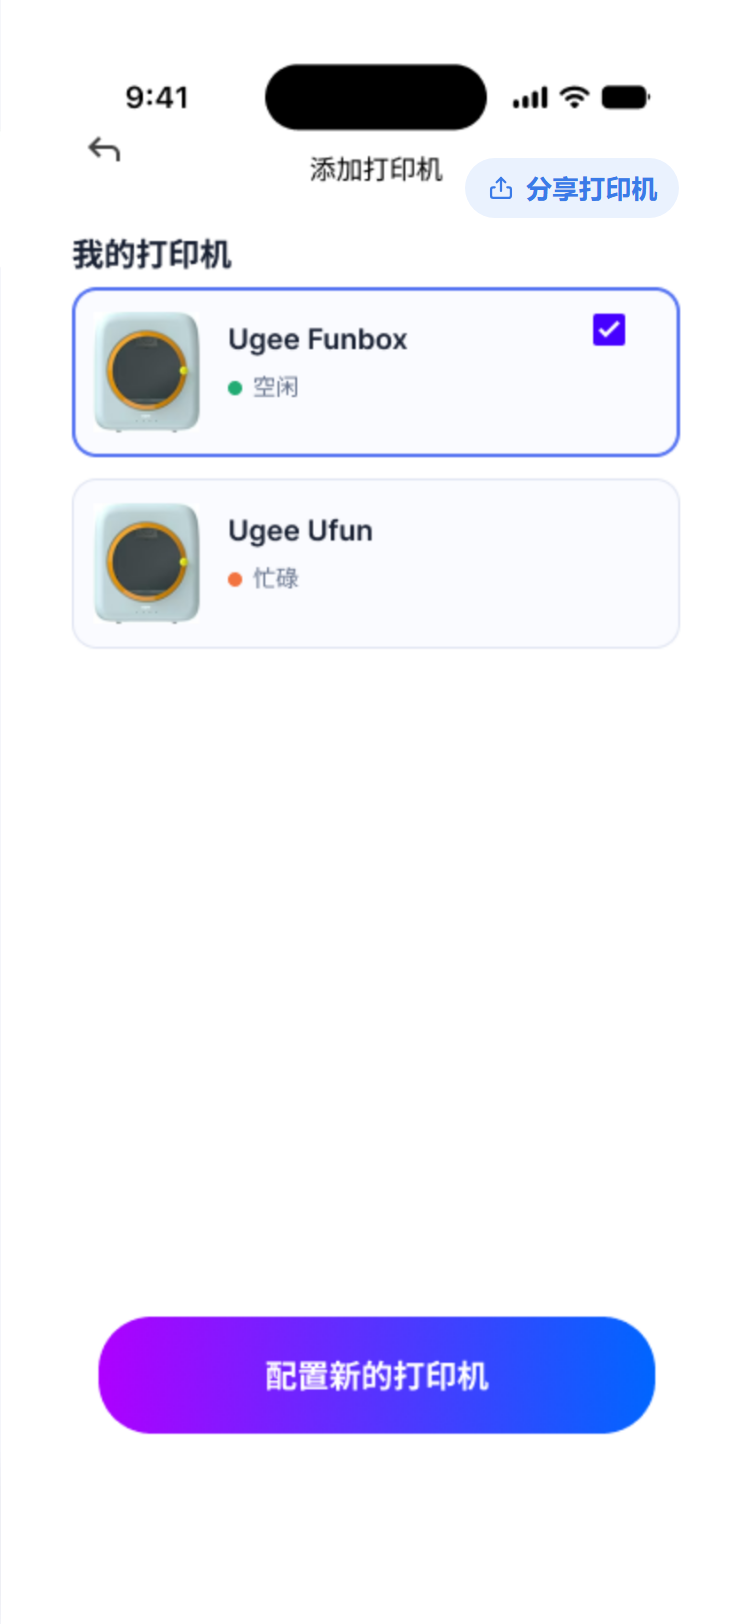
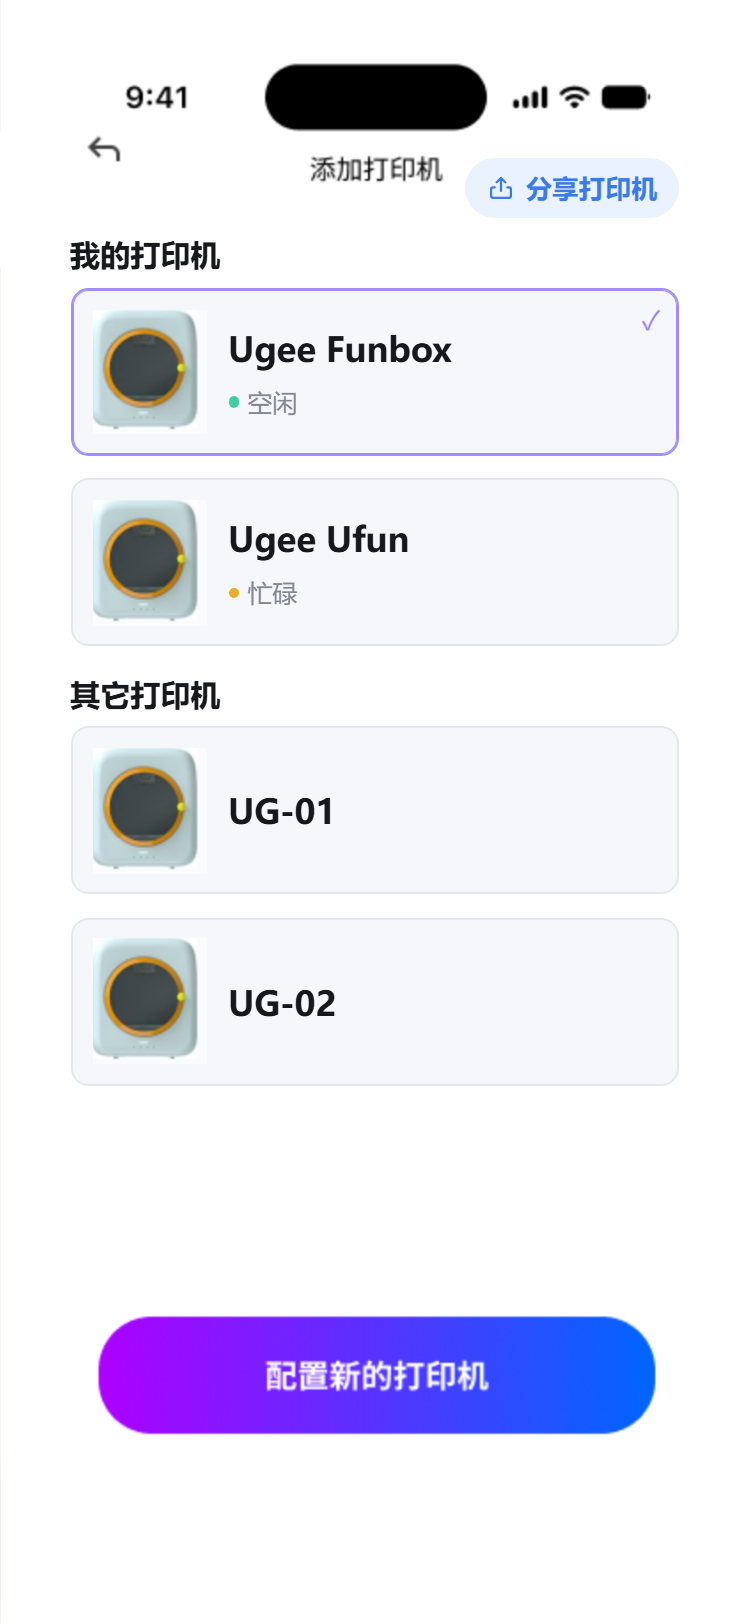
feat(prototype): add discovered printers with owner binding rules

diff --git a/ziyan/dayinji/自研款打印机打印页面原型/index.html b/ziyan/dayinji/自研款打印机打印页面原型/index.html
@@ -5,7 +5,7 @@
   <meta name="viewport" content="width=device-width, initial-scale=1, viewport-fit=cover">
   <meta name="theme-color" content="#f4f5fa">
   <title>自研款打印机打印页面原型</title>
-  <link rel="stylesheet" href="styles.css?v=r011">
+  <link rel="stylesheet" href="styles.css?v=r012">
   <link rel="stylesheet" href="styles-share-printer.css?v=r008">
   <link rel="stylesheet" href="styles-filament-operation.css?v=r008">
   <link rel="stylesheet" href="styles-3d-preview.css?v=r008">
@@ -311,7 +311,40 @@
   <section id="add-printer-screen" class="reuse-screen" hidden tabindex="-1" aria-label="添加打印机">
     <div class="reuse-screen-frame">
       <div class="reuse-stage" style="--reuse-ratio: 846 / 1720">
-        <img src="../../原型修改复用图片资源/添加打印机.png" alt="添加打印机页，包含我的打印机列表与配置新的打印机按钮">
+        <img src="../../原型修改复用图片资源/添加打印机.png" alt="" aria-hidden="true">
+        <div class="add-printer-catalog">
+          <section aria-labelledby="my-printers-heading">
+            <h2 id="my-printers-heading">我的打印机</h2>
+            <div id="my-printers-list" class="printer-list">
+              <button class="printer-card" type="button" aria-pressed="true">
+                <span class="printer-card-icon" aria-hidden="true"></span>
+                <span class="printer-card-copy"><span class="printer-name">Ugee Funbox</span><span class="printer-status">空闲</span></span>
+                <span class="printer-selected" aria-hidden="true">✓</span>
+              </button>
+              <button class="printer-card" type="button" aria-pressed="false">
+                <span class="printer-card-icon" aria-hidden="true"></span>
+                <span class="printer-card-copy"><span class="printer-name">Ugee Ufun</span><span class="printer-status printer-status--busy">忙碌</span></span>
+                <span class="printer-selected" aria-hidden="true">✓</span>
+              </button>
+            </div>
+          </section>
+          <section aria-labelledby="other-printers-heading">
+            <h2 id="other-printers-heading">其它打印机</h2>
+            <div id="other-printers-list" class="printer-list">
+              <button id="printer-ug01" class="printer-card" type="button">
+                <span class="printer-card-icon" aria-hidden="true"></span>
+                <span class="printer-card-copy"><span class="printer-name">UG-01</span></span>
+                <span class="printer-selected" aria-hidden="true">✓</span>
+              </button>
+              <button id="printer-ug02" class="printer-card" type="button">
+                <span class="printer-card-icon" aria-hidden="true"></span>
+                <span class="printer-card-copy"><span class="printer-name">UG-02</span></span>
+                <span class="printer-selected" aria-hidden="true">✓</span>
+              </button>
+            </div>
+          </section>
+          <p id="printer-add-announcement" class="sr-only" role="status"></p>
+        </div>
         <!-- 顶部右侧、略低于标题「添加打印机」的新入口：分享打印机。
              原图此处是空白，所以按钮需要自绘文字（不是透明热区）。 -->
         <button id="open-share-printer" class="add-printer-share-entry" type="button" aria-label="分享打印机">
@@ -964,6 +997,15 @@
   <!-- 3D 预览页逻辑；three.js 与内嵌模型数据（base64 STL，约 1.2 MB，绕开 file:// 的 CORS 限制）
        由它在第一次打开预览页时才按需加载，不拖慢打印页面首屏 -->
   <script src="prototype-3d-preview.js?v=r008"></script>
-  <script src="prototype.js?v=r011"></script>
+  <dialog id="printer-bound-dialog" class="app-dialog" aria-labelledby="printer-bound-title" aria-describedby="printer-bound-copy">
+    <form method="dialog">
+      <h2 id="printer-bound-title">无法连接打印机</h2>
+      <p id="printer-bound-copy">当前该打印机已被其它用户绑定，请联系设备 Owner，通过分享打印机加入其家庭群组后使用。</p>
+      <div class="dialog-actions">
+        <button id="printer-bound-confirm" value="confirm" data-tone="primary" autofocus>我知道了</button>
+      </div>
+    </form>
+  </dialog>
+  <script src="prototype.js?v=r012"></script>
 </body>
 </html>

diff --git a/ziyan/dayinji/自研款打印机打印页面原型/styles.css b/ziyan/dayinji/自研款打印机打印页面原型/styles.css
@@ -466,6 +466,32 @@ body.operation-open { overflow: hidden; }
 .dialog-actions button[data-tone="outline"] { border: 1.5px solid #1c1c1e; color: #1c1c1e; background: #fff; }
 .dialog-actions button[data-tone="upgrade"] { color: #fff; background: linear-gradient(100deg, #7456ee 0%, #3981f1 100%); }
 /* 添加打印机页：底部“配置新的打印机”（坐标按 846×1720 原图量取） */
+.add-printer-catalog {
+  --printer-unit: calc(min(100vw, var(--device-width)) / 846);
+  position: absolute;
+  top: 15.5%;
+  right: 0;
+  bottom: 18%;
+  left: 0;
+  padding: 0 9.34%;
+  background: #fff;
+}
+.add-printer-catalog section + section { margin-top: calc(32 * var(--printer-unit)); }
+.add-printer-catalog h2 { margin: 0 0 calc(16 * var(--printer-unit)); font-size: calc(34 * var(--printer-unit)); font-weight: 600; line-height: calc(42 * var(--printer-unit)); color: #18191d; }
+.printer-list { display: grid; gap: calc(25 * var(--printer-unit)); }
+.printer-card { position: relative; display: flex; align-items: center; gap: calc(24 * var(--printer-unit)); width: 100%; height: calc(190 * var(--printer-unit)); padding: calc(24 * var(--printer-unit)); border: 1px solid #e4e7ed; border-radius: calc(20 * var(--printer-unit)); background: #f6f7fb; text-align: left; cursor: pointer; }
+.printer-card[aria-pressed="true"] { border-color: #a28cff; box-shadow: inset 0 0 0 .5px #a28cff; }
+.printer-card:active { background-color: #eef0fa; }
+/* 直接复用底图中原有的打印机插图，保持两组列表图标一致。 */
+.printer-card-icon { flex: 0 0 calc(128 * var(--printer-unit)); height: calc(142 * var(--printer-unit)); background: url("../../原型修改复用图片资源/添加打印机.png") calc(-107 * var(--printer-unit)) calc(-352 * var(--printer-unit)) / calc(846 * var(--printer-unit)) calc(1720 * var(--printer-unit)) no-repeat; }
+.printer-card-copy { display: grid; gap: calc(18 * var(--printer-unit)); min-width: 0; }
+.printer-name { color: #17181d; font-size: calc(38 * var(--printer-unit)); font-weight: 600; white-space: nowrap; }
+.printer-status { display: flex; align-items: center; gap: calc(10 * var(--printer-unit)); color: #828793; font-size: calc(28 * var(--printer-unit)); line-height: 1.3; }
+.printer-status::before { width: calc(12 * var(--printer-unit)); height: calc(12 * var(--printer-unit)); border-radius: 50%; background: #42cda4; content: ""; }
+.printer-status--busy::before { background: #ecad29; }
+.printer-selected { position: absolute; top: calc(12 * var(--printer-unit)); right: calc(20 * var(--printer-unit)); display: none; color: #9c80fb; font-size: calc(30 * var(--printer-unit)); }
+.printer-card[aria-pressed="true"] .printer-selected { display: block; }
+#printer-bound-dialog .dialog-actions { grid-template-columns: 1fr; }
 .reuse-hotspot--configure-printer { left: 13%; top: 86.4%; width: 74.23%; height: 7.67%; border-radius: 999px; }
 /* 移除打印机弹窗：取消 / 确认（坐标按 411×879 原图量取） */
 .reuse-hotspot--remove-cancel { left: 23%; top: 49.5%; width: 20%; height: 9%; border-radius: 999px; }

diff --git a/ziyan/dayinji/自研款打印机打印页面原型/prototype.js b/ziyan/dayinji/自研款打印机打印页面原型/prototype.js
@@ -1054,6 +1054,26 @@ timelapseActionButton.addEventListener('click', () => openReuseScreen('timelapse
 
 
 /* ---------- 添加打印机 → 配置新的打印机 ---------- */
+/* 仅为当前页面的发现/绑定演示数据；已有 Owner 的设备必须通过分享使用。 */
+const myPrintersList = document.querySelector('#my-printers-list');
+const printerBoundDialog = document.querySelector('#printer-bound-dialog');
+document.querySelector('#printer-ug01').addEventListener('click', () => printerBoundDialog.showModal());
+myPrintersList.addEventListener('click', (event) => {
+  const card = event.target.closest('.printer-card');
+  if (!card) return;
+  myPrintersList.querySelectorAll('.printer-card').forEach(item => item.setAttribute('aria-pressed', String(item === card)));
+});
+document.querySelector('#printer-ug02').addEventListener('click', (event) => {
+  const card = event.currentTarget;
+  if (card.parentElement === myPrintersList) return;
+  const status = document.createElement('span');
+  status.className = 'printer-status';
+  status.textContent = '已连接';
+  card.querySelector('.printer-card-copy').append(status);
+  myPrintersList.append(card);
+  myPrintersList.querySelectorAll('.printer-card').forEach(item => item.setAttribute('aria-pressed', String(item === card)));
+  document.querySelector('#printer-add-announcement').textContent = 'UG-02 已连接，已加入我的打印机。';
+});
 document.querySelector('#add-printer-back').addEventListener('click', goBackInReuseScreens);
 document.querySelector('#configure-new-printer').addEventListener('click', () => {
   /* 真实跳转到首次配网连接流程原型的第二页「选择要设置的打印机」 */

diff --git a/ziyan/dayinji/自研款打印机打印页面原型/index-offline.html b/ziyan/dayinji/自研款打印机打印页面原型/index-offline.html
@@ -7,7 +7,7 @@
   <title>打印机离线状态 · 自研款打印机打印页面原型</title>
   <!-- 复用在线工作台的设备框 / 头部 / 摄像头裁切 / 底部导航 / Toast / 复用整图页样式（只引用，不修改）；
        离线态专属规则全部收在 styles-offline.css 的专属类名作用域内 -->
-  <link rel="stylesheet" href="styles.css?v=r010">
+  <link rel="stylesheet" href="styles.css?v=r012">
   <link rel="stylesheet" href="styles-offline.css?v=r001">
 </head>
 <body>

diff --git a/ziyan/dayinji/自研款打印机打印页面原型/README.md b/ziyan/dayinji/自研款打印机打印页面原型/README.md
@@ -61,7 +61,7 @@
   - 实现注意：① 这些元素都带 `display: grid`，**必须显式写 `.xxx[hidden] { display: none }`**，否则 `[hidden]` 的 UA 样式会被同优先级的 `display` 覆盖，导致进度环/播放图标/勾选标记在不该出现时也显示；② 顶栏与底部操作条的按钮是**命中盒，不参与 `--u` 等比缩放**（`--u` = 375/390，44 × `--u` ≈ 42.3px 会低于 44px 最小点按区），只有图标与文字随 `--u` 缩放。
 - 风扇滤芯更换页复用 `../../原型修改复用图片资源/风扇滤芯更换.png`：底部“我已更换”按钮为真实按钮，点击后返回打印页并把标签文案从 `100h` 改为 `400h`；右上角另有一个透明按钮，点击跳转复用 `../../原型修改复用图片资源/风扇提醒弹窗.png` 的风扇提醒弹窗页。
 - 除延时摄影列表页（真实 DOM，自带顶栏返回）外，其余复用大图页面都在左上角提供透明回退按钮（对齐原图里烘焙的返回箭头），并按进入层级逐级返回：设备设置 → 打印选项，风扇滤芯更换 → 风扇提醒弹窗，最终回到打印页面。
-- 顶栏的“添加打印机”入口已直接接上真实跳转：点击即打开复用 `../../原型修改复用图片资源/添加打印机.png` 的添加打印机页（含“我的打印机”列表与两台设备），不再经过原“切换或添加打印机”确认弹窗。该页左上角有 96 × 96 的透明回退按钮回到打印页；底部“配置新的打印机”热区跨原型跳转到 `../../lianjiepeiwnag/打印机首次配网连接流程原型/index.html?screen=printer-select`，直接落在配网流程的第二页「选择要设置的打印机」。
+- 顶栏的“添加打印机”入口直接打开添加打印机页。保留原底图的页头与底部按钮，列表区域改为同样式的可交互卡片：“我的打印机”初始为 Ugee Funbox 与 Ugee Ufun；下方新增“其它打印机”，依次为 UG-01、UG-02，不显示状态。UG-01 模拟已有 Owner，点击提示“当前该打印机已被其它用户绑定”，需通过 Owner 分享加入家庭群组后使用；UG-02 模拟没有 Owner，点击直接移入“我的打印机”、显示“已连接”并选中，同一页面会话内返回再进入保留结果，不重复添加。以上为页面演示数据，刷新恢复初始状态。左上角按跳转栈返回；底部“配置新的打印机”仍跳转到 `../../lianjiepeiwnag/打印机首次配网连接流程原型/index.html?screen=printer-select`。
 - **「分享打印机」入口 + 分享页（本轮新增）**：添加打印机页**顶部右侧、略低于标题「添加打印机」**处新增一枚真实的「分享打印机」胶囊按钮。这是**自绘按钮而不是透明热区**——原图这个位置是空白，没有烘焙按钮可以透出来。位置按 `添加打印机.png`（846 × 1720）原图量取：标题本体检出 bbox x 350~497 / y 176~204，卡片左右内边距 79px，于是按钮**右缘与卡片右缘对齐**（`right: 9.34%`），胶囊中心比标题中心低约 10px（正好是需求里的「稍低于标题」），可见胶囊 30px 高、命中盒 44 × ~106px（`top: 9.44%`）。点击进入**分享打印机页**。
 - **分享打印机页是真实 DOM 高保真页（不是整图复用）**：整页锁在 375 × 812 设备框内，底色 `#F7F9FC`、主色 `#4388F5`、卡片 16px 圆角 + 轻阴影。页面自上而下：自绘状态栏 + 导航栏（左返回箭头 / 中标题「分享打印机」/ 右无操作）→ **当前打印机信息卡**（左：白色封闭式桌面打印机渲染图；右：设备名 `My Printer`、绿色「已连接」状态标签、`SN ****1234`；Owner 有多台时卡片右侧出现下拉箭头）→ **分享说明区**（「和家人一起创作」+ 副标题「邀请家人使用这台打印机，一起开启 3D 创作之旅。」+ 小尺寸家庭共享插画）→ **核心分享卡片**（页面视觉中心：「邀请家人加入」+ 居中二维码、中心压简化 3D 打印机图标 + 邀请码 `ABCD 1234`、右侧复制图标按钮 + 浅灰「有效期剩余 09:5x」实时倒计时 + 蓝色主按钮「分享邀请」+ 文字按钮「重新生成邀请码」）→ **已共享成员**（标题 + `2/5` 计数 + 小明 / 小红两位成员的头像、昵称、「受限成员」标签、「已加入」状态 + 底部「管理共享成员」带箭头入口）。内容超出一屏，在设备框内纵向滚动（沿用原有滚动指示条）。
 - **二维码是真的，且与邀请码永远成对**：`assets/_tools_make_share_assets.py` 用 qrcode（ECC H）**预生成 6 组「邀请码 + 二维码」成对资产** `assets/分享打印机-二维码-1..6.svg`，同时写出 `share-code-pool.js`（`window.SHARE_CODE_POOL`；`file://` 下不能 fetch 本地 JSON，所以码池直接生成成 JS 常量）。点「重新生成邀请码」或切换打印机时按顺序换下一组，**二维码里编码的链接和页面上显示的邀请码始终一致**，不会出现「换了码但扫出来还是上一台的链接」。中心压 27px 简化打印机图标，ECC H 的冗余足够，仍然可扫。
@@ -239,9 +239,12 @@
 powershell -NoProfile -ExecutionPolicy Bypass -File .\tests\prototype-contract.ps1
 node .\tests\browser-e2e.mjs
 node .\tests\share-printer-e2e.mjs
+node .\tests\add-printer-e2e.mjs
 node .\tests\check-3d-preview.mjs
 node .\tests\check-offline-page.mjs
 ```
+
+`tests/add-printer-e2e.mjs` 使用临时独立 Chrome 配置，验证 UG-01 绑定拦截及弹窗键盘关闭、UG-02 连接/移入/去重、返回后状态保留、分享与配网入口，以及四种视口布局。截图默认输出到临时目录；设置 `PRINTER_SCREENSHOTS` 为本目录可更新 `prototype-add-printer.png`、`prototype-add-printer-bound.png`、`prototype-add-printer-connected.png`。
 
 `tests/check-offline-page.mjs` 是**打印机离线工作台**（`index-offline.html`）的专项校验（Node 22 内置 WebSocket 直连 Chrome CDP，不需要 puppeteer / playwright），跑 **69 项断言**并输出五张验收截图（`prototype-offline.png` 离线工作台首屏、`prototype-offline-sheet.png` 分支弹层、`prototype-offline-add-printer.png` 添加打印机页、`prototype-offline-device-settings.png` 设备设置页、`prototype-offline-online.png` 线上实拍）：离线连接状态（`data-connection-status="offline"`、文案「离线」、原 `离线.png` 资产 74×42 / 渲染宽 74 设计像素、覆盖底图「● 忙碌」位置）、「离线」右侧的蓝色刷新按钮（30 设计像素命中盒 / 视觉圆 16 设计像素与文字同高、品牌蓝渐变、白色图标、中心点最顶层元素就是它自己、圆心落在文字右侧且垂直齐平）、恢复的添加打印机 / 设备设置按钮（与在线工作台同位置、命中盒、中心点命中自己；点击分别打开对应整图页、原图加载、底层 inert、左上角与 Esc 返回）、设备设置页四行点击只出 Toast 不离开、添加打印机页「配置新的打印机」跳转配网流程 `?screen=printer-select` 并落在「选择要设置的打印机」、摄像头关闭态（`关闭摄像头状态.jpg` 铺满区域、三个摄像头交互控件一律不存在）、任务控制面板 / 耗材面板 / 风扇滤芯标签 / 固件提醒条一律不存在、说明卡 3D 打印机插画（资产 176×176）与文案逐字一致且位于摄像头画面下方、「重新连接」按钮文案、分支弹层初始完全隐藏 → 点开后的 dialog 语义与两个分支的标题（打印机已完成配网 / 打印机未完成配网）/ 说明、Esc 关闭、头部刷新按钮的检测流程（点击后按钮禁用 + `is-loading` + 图标旋转动画 `connection-refresh-spin`、检测完成恢复可点击后才打开弹层）、**分支一**跳转打印页原型且落地为在线可打印态、**分支二**跳转配网流程 `?screen=printer-select` 并落在「选择要设置的打印机」、原在线工作台（任务面板 / 耗材面板 / 摄像头开启态）不受影响、无 console 报错。
 

diff --git a/ziyan/TASK.md b/ziyan/TASK.md
@@ -1215,3 +1215,13 @@
 - “取消全部任务”改为：只取消当前这一次提交中正在准备/打印及尚未开始的盘，不影响其他次提交，即使模型相同或账号相同；已完成盘保留原结果。
 - 核验：15处文档操作回读通过、蓝字确认；权限矩阵合并布局和Owner专属网络权限检查通过；原图片、画板、表格引用保留；旧难懂文案已清除。
 - 本轮未改原型代码，无需运行浏览器功能测试。后续修改继续提交 feature/prd-prototype-revision-20261019。
+
+## 2026-10-19｜添加打印机页：其它打印机与唯一 Owner 绑定演示
+
+- 修改位置：`dayinji/自研款打印机打印页面原型/index.html` 的添加打印机页。保留原页头、分享入口、底部配置按钮和设备卡片样式，将原底图列表区域替换为可交互 DOM。
+- “我的打印机”下新增同格式的“其它打印机”：第一行 UG-01 不显示状态，点击提示“当前该打印机已被其它用户绑定”，只能由 Owner 分享加入家庭群组使用，不加入我的列表；第二行 UG-02 模拟无 Owner，点击直接移入我的打印机，显示“已连接”并选中。
+- 连接结果在当前页面会话内返回后保留，重复点击不重复添加，刷新恢复模拟数据。此轮没有接入真实扫描/绑定接口。
+- 更新 README、资源缓存版本及添加页/已绑定提示/连接完成三态截图；离线入口仅同步共用 CSS 缓存版本，未改离线独立页面交互。
+- 验收：先运行新增浏览器用例确认旧页面缺少其它打印机，再完成实现；添加打印机专项最终通过，覆盖鼠标与键盘、Owner 拦截、连接迁移/去重、返回保留、分享与配网跳转，以及 320×568 / 375×812 / 768×1024 / 1440×900 四种视口。分享打印机原有 221 项验收全部通过，浏览器无异常，git diff --check 通过。
+- 既有结构契约检查未通过：缺少 `id="timelapse-screen-frame"`；使用修改前 HEAD 的页面重跑同样失败，确认是基线问题，本次不扩展修改延时摄影模块。
+- 后续修改继续使用 `feature/prd-prototype-revision-20261019` 分支。
